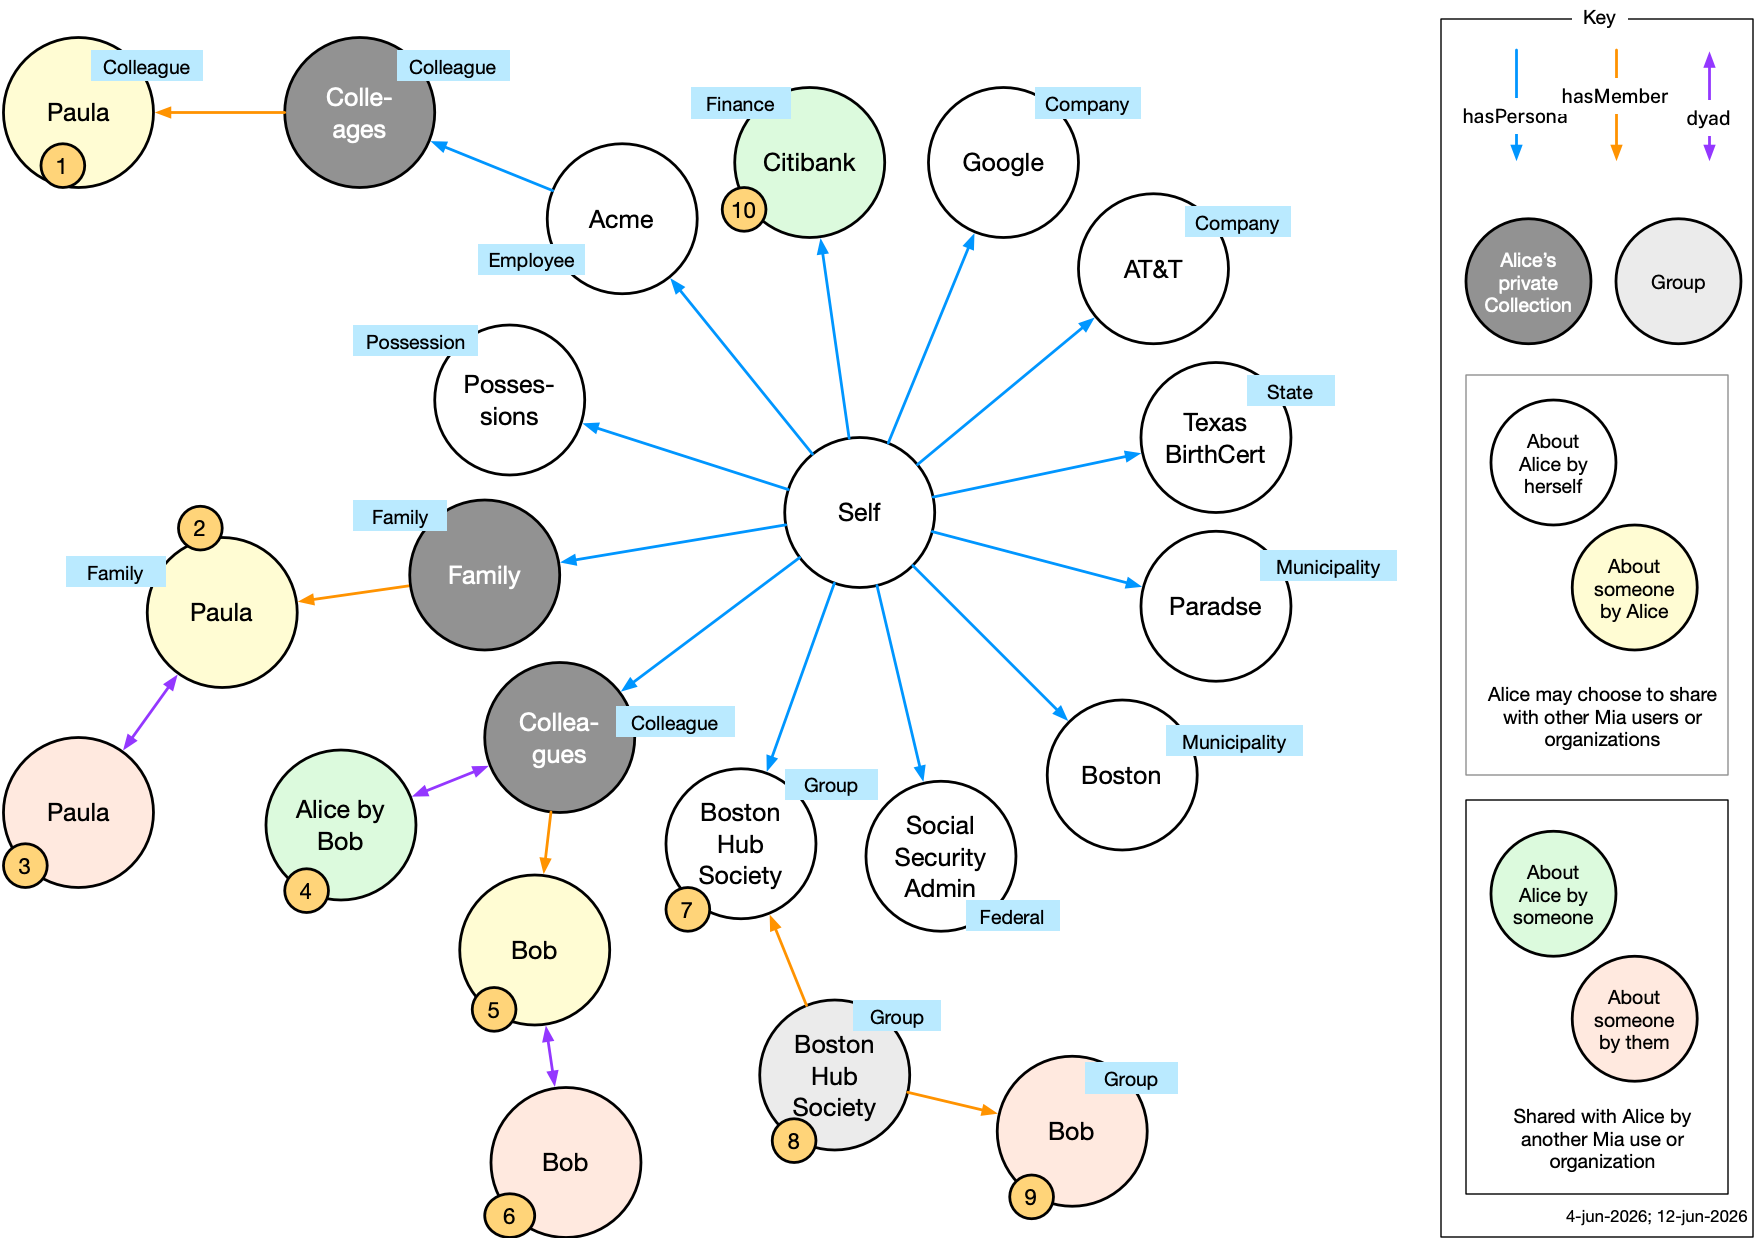
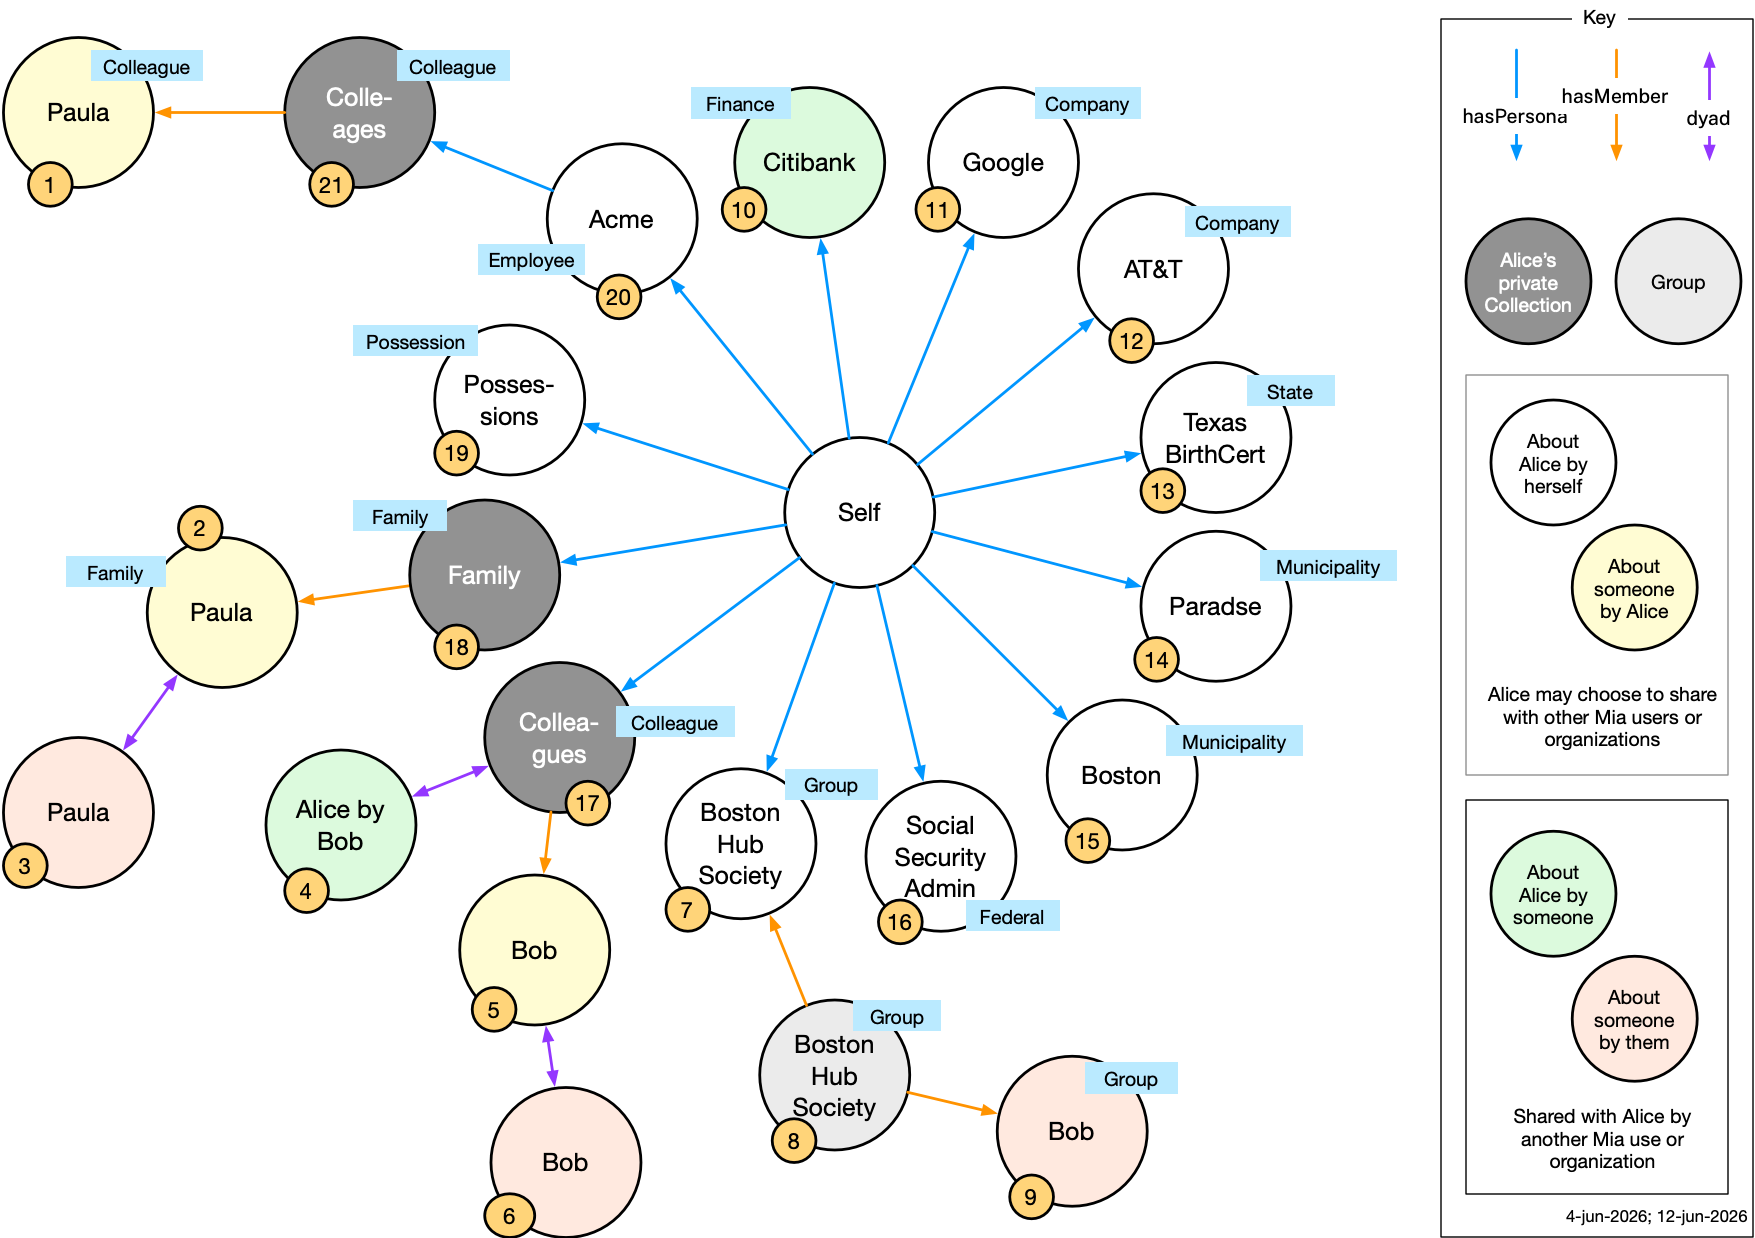
more labeling

diff --git a/README.md b/README.md
@@ -311,25 +311,25 @@ As we've mentioned, Alice interacts with other people, organizations and groups 
 
 The contexts in the table below are all *about* Alice. That is, they have a c:subject property whose value is one of Alice's PDNidenties. They are also all asserted *by* Alice - Alice is making these claims about herself. That is, they have a c:assertedBy property whose value is one of Alice's PDNidentities. These files are all in the `alice-contexts` subfolder.
 
-| # | Context file        | Context type | Key data | Image |
-|---|:--------------------|:-------------|:---------|:------|
-|   | `google.ttl`        | Company      | Email address | [view](images/alice-contexts/alice(google).png) |
-|   | `att.ttl`           | Company      | Phone number | [view](images/alice-contexts/alice(att).png) |
-|   | `tx-birth-cert.ttl` | State        | Legal names: Margery Alice Walker; maiden name Margery Alice Arnold | [view](images/alice-contexts/alice(texas-birth-certificate).png) |
-|   | `paradise.ttl`      | Municipality | Current address — Paradise, CA (2025–present) | [view](images/alice-contexts/alice(paradise).png) |
-|   | `boston.ttl`        | Municipality | Previous address — Boston, MA (2020–2025) with temporal interval | [view](images/alice-contexts/alice(boston).png) |
-|   | `ssa.ttl`           | Federal      | SSN | [view](images/alice-contexts/alice(ssa).png) |
-| 7 | `bhs.ttl` 🆕         | Group        | BHS profile includes email, phone and current address | [view](images/alice-contexts/alice(bhs).png) |
-|   | `colleagues.ttl`    | Colleagues   | Alice's social network with colleageus Bob and Paula | [view](images/alice-contexts/alice(colleagues).png) |
-|   | `family.ttl`        | Family       | Family social network with Paula Walker | [view](images/alice-contexts/alice(family).png) |
-|   | `possessions.ttl`   | Possession   | Wallet (driver's license + payment card); health insurance and SSN card | [view](images/alice-contexts/alice(possessions).png) |
-|   | `acme.ttl` (TODO)    | Employee     | Colleagues, Customers, Projects |  |
+| #  | Context file        | Context type | Key data | Image |
+|--- |:--------------------|:-------------|:---------|:------|
+| 11 | `google.ttl`        | Company      | Email address | [view](images/alice-contexts/alice(google).png) |
+| 12 | `att.ttl`           | Company      | Phone number | [view](images/alice-contexts/alice(att).png) |
+| 13 | `tx-birth-cert.ttl` | State        | Legal names: Margery Alice Walker; maiden name Margery Alice Arnold | [view](images/alice-contexts/alice(texas-birth-certificate).png) |
+| 14 | `paradise.ttl`      | Municipality | Current address — Paradise, CA (2025–present) | [view](images/alice-contexts/alice(paradise).png) |
+| 15 | `boston.ttl`        | Municipality | Previous address — Boston, MA (2020–2025) with temporal interval | [view](images/alice-contexts/alice(boston).png) |
+| 16 | `ssa.ttl`           | Federal      | SSN | [view](images/alice-contexts/alice(ssa).png) |
+| 7  | `bhs.ttl` 🆕         | Group        | BHS profile includes email, phone and current address | [view](images/alice-contexts/alice(bhs).png) |
+| 17 | `colleagues.ttl`    | Colleagues   | Alice's social network with colleageus Bob and Paula | [view](images/alice-contexts/alice(colleagues).png) |
+| 18 | `family.ttl`        | Family       | Family social network with Paula Walker | [view](images/alice-contexts/alice(family).png) |
+| 19 | `possessions.ttl`   | Possession   | Wallet (driver's license + payment card); health insurance and SSN card | [view](images/alice-contexts/alice(possessions).png) |
+| 20 | `acme.ttl` (TODO)    | Employee     | Colleagues, Customers, Projects |  |
 
 The following table lists contexts that are *about* Alice, but asserted by others. The Citibank context is asserted by the Citibank organization; it makes claims about Alice. 
 
-| # | Context file       | Context type | Key data | Image |
-|---|:-------------------|:-------------|:---------|:------|
-| 9 | `citibank.ttl`     | Company      | Debit card | [view](images/alice-contexts/alice(citibank).png) |
+| #  | Context file       | Context type | Key data | Image |
+|----|:-------------------|:-------------|:---------|:------|
+| 9  | `citibank.ttl`     | Company      | Debit card | [view](images/alice-contexts/alice(citibank).png) |
 <!---
 | `alice(by-bob)` | Colleagues | What Bob says about Alice |  |
 --->